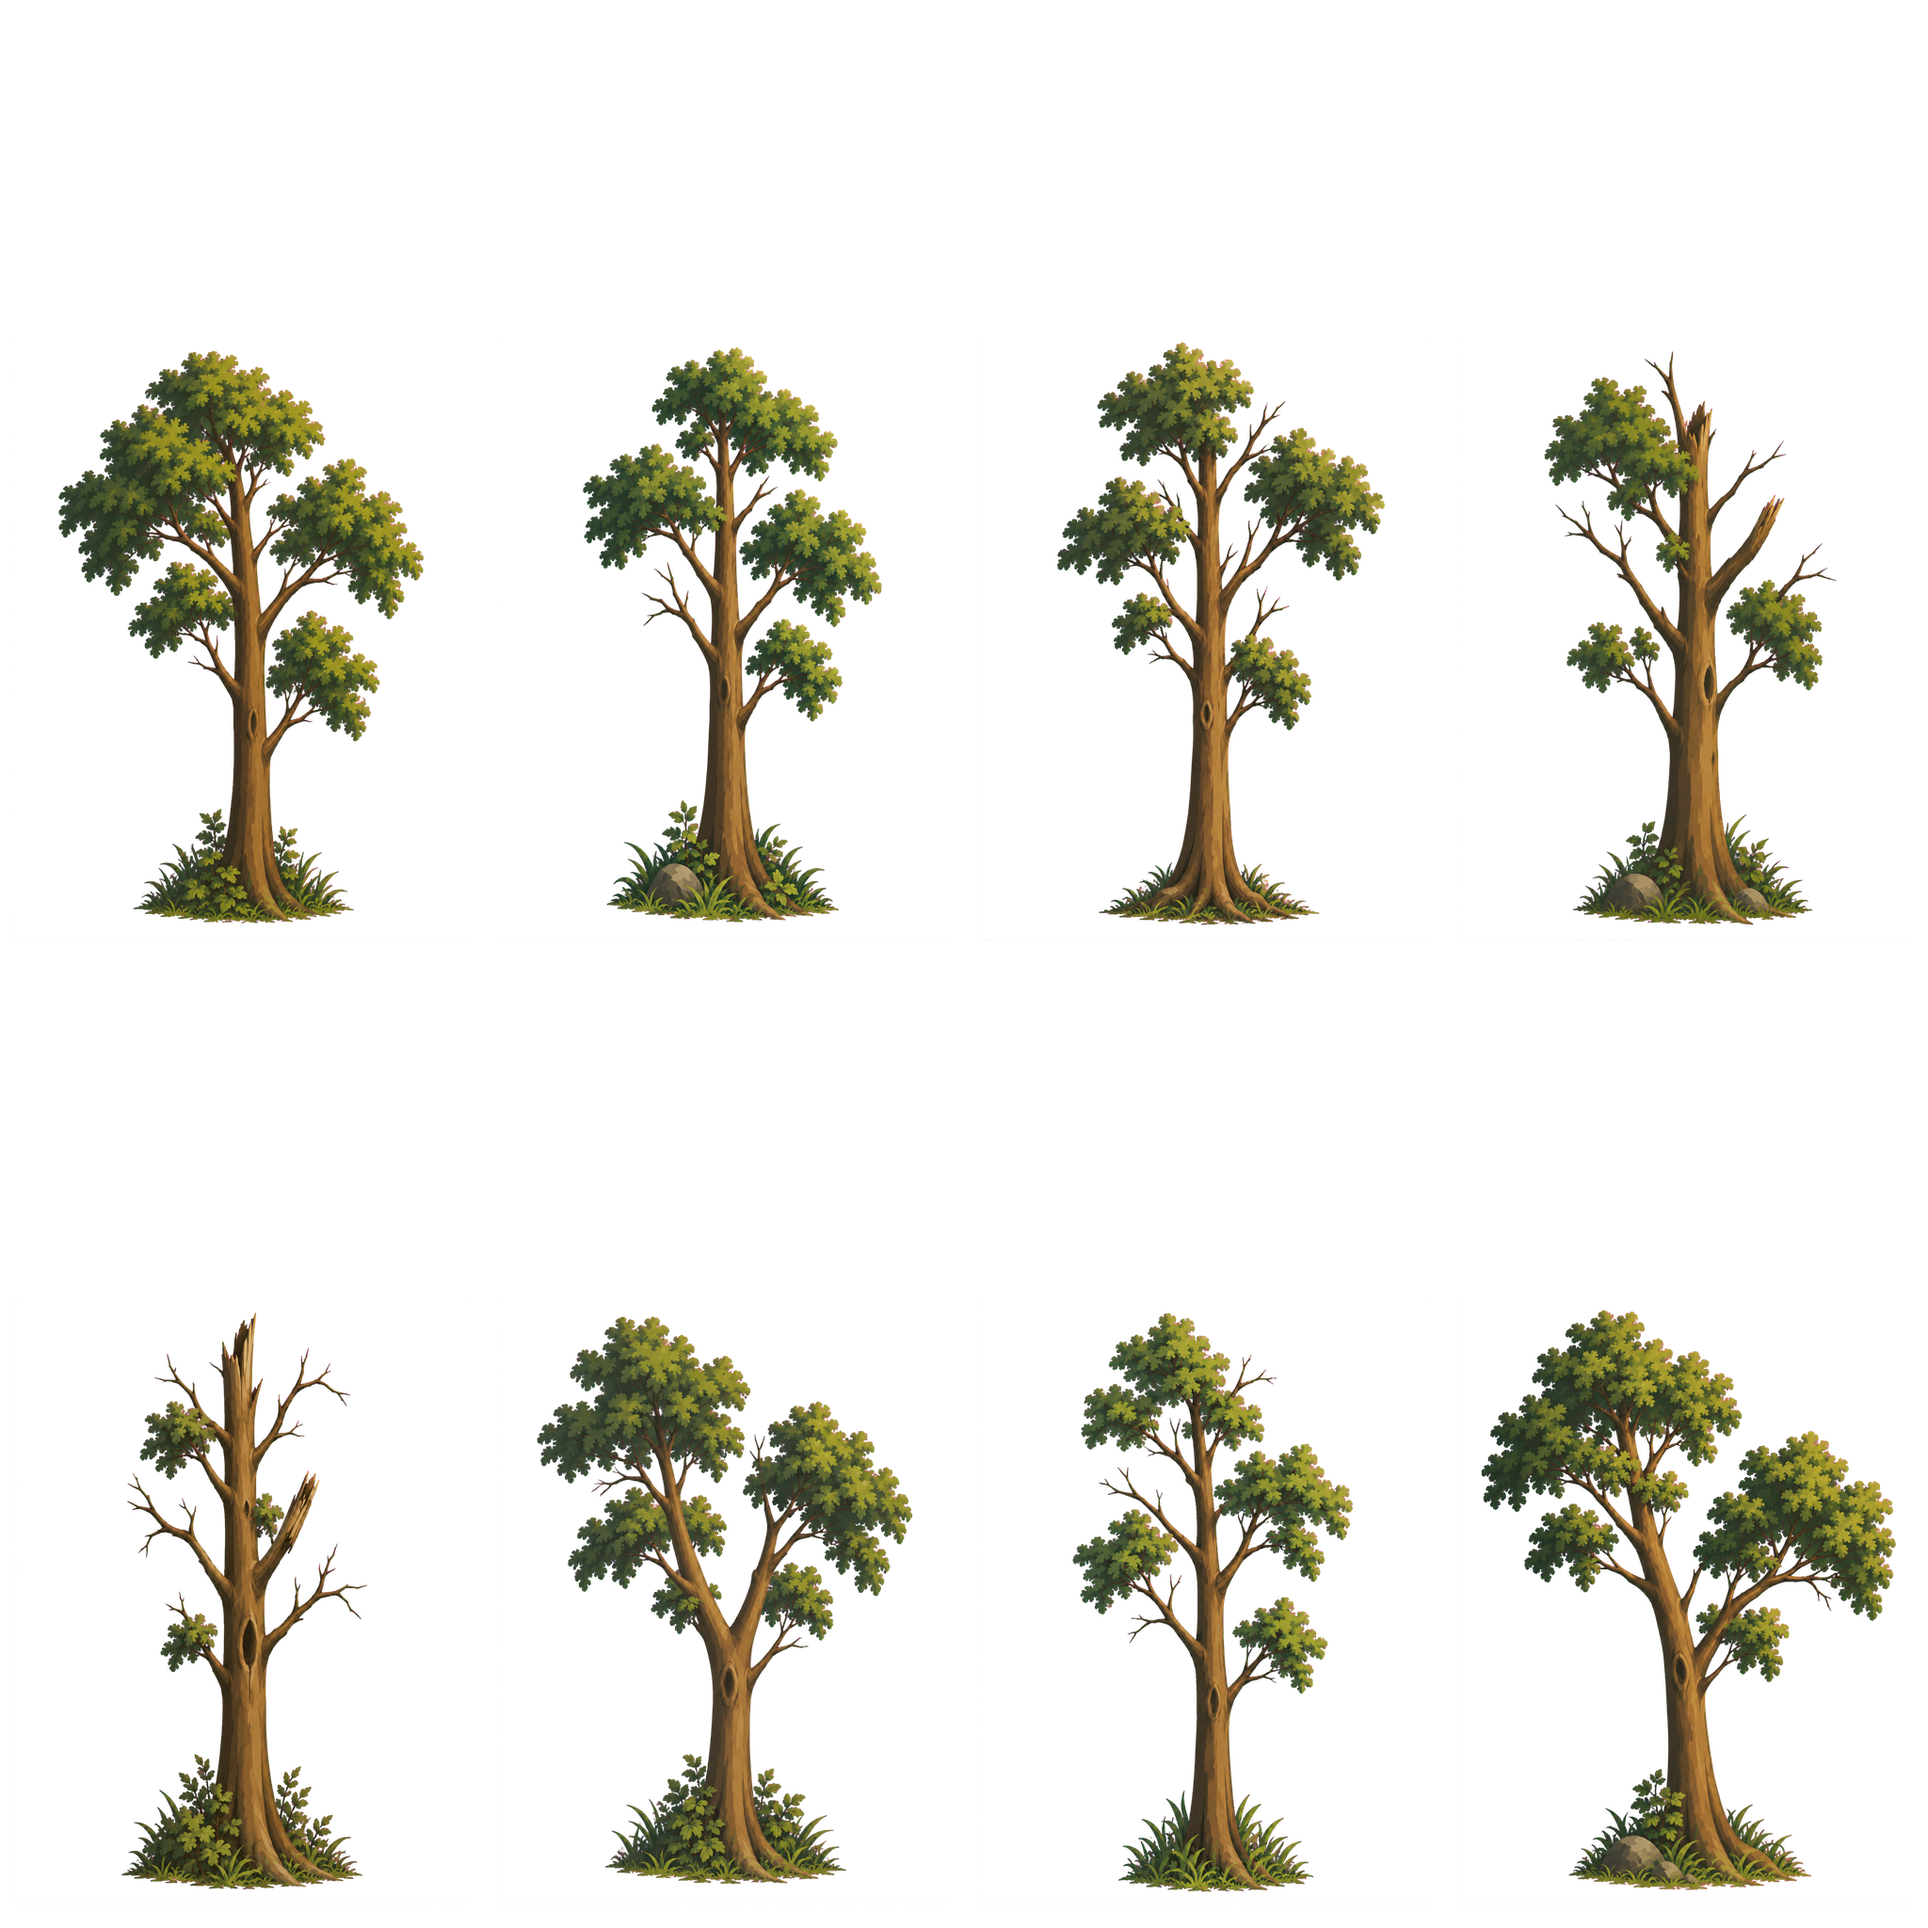
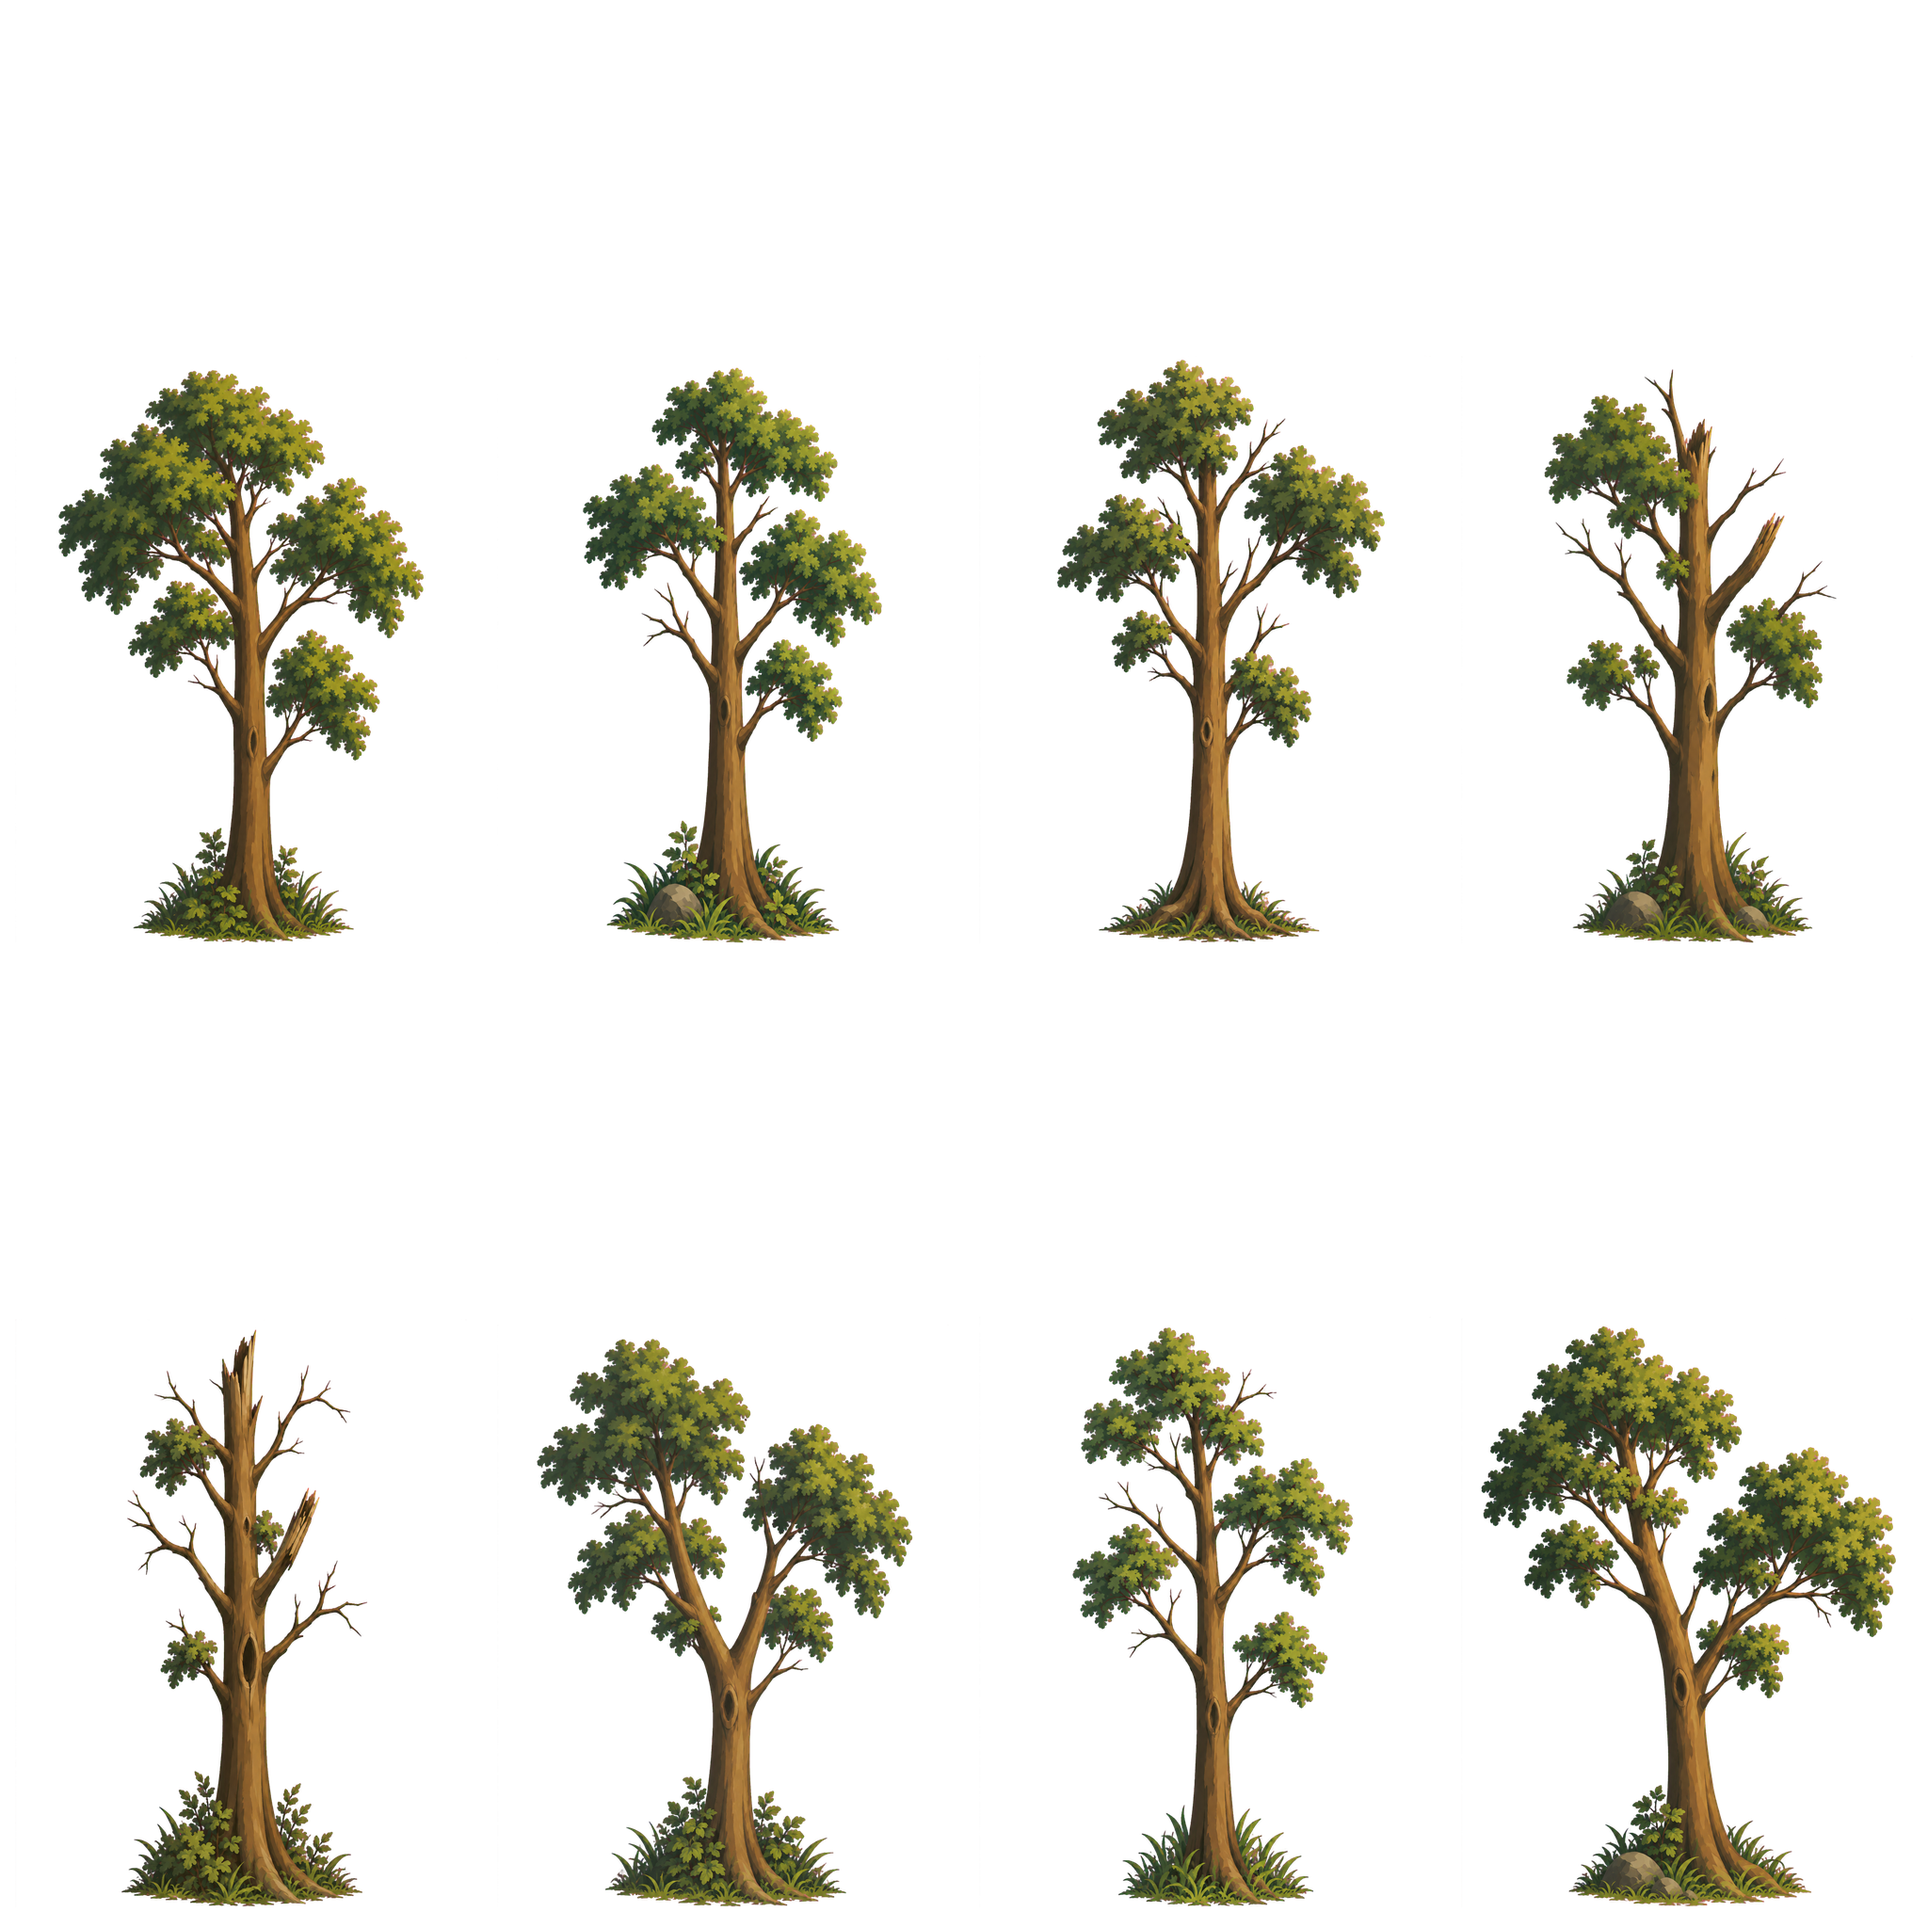
Add files via upload

diff --git a/sidescroll.js b/sidescroll.js
@@ -724,7 +724,7 @@
     return tex;
   }
 
-  textures.pathDirt = createRepeatingImageTexture('terrain-dirt.png?v=0.2.66', 'terrain dirt texture', {
+  textures.pathDirt = createRepeatingImageTexture('terrain-dirt.png?v=0.2.67', 'terrain dirt texture', {
     placeholderDraw: drawFallbackTerrainTexture,
     potSize: 1024
   });
@@ -732,8 +732,8 @@
   // v1.8.81: forest dressing now comes from one authored atlas.
   // This removes the old per-file fallback path which could substitute the
   // full woodland source sheet when an individual PNG failed to load.
-  textures.dressingAtlas = createImageTexture('sidescroll-dressing-atlas.png?v=0.2.66', 'SideScroll dressing atlas');
-  textures.treeAtlas = createImageTexture('sidescroll-tree-atlas.png?v=0.2.66', 'SideScroll tree atlas');
+  textures.dressingAtlas = createImageTexture('sidescroll-dressing-atlas.png?v=0.2.67', 'SideScroll dressing atlas');
+  textures.treeAtlas = createImageTexture('sidescroll-tree-atlas.png?v=0.2.67', 'SideScroll tree atlas');
   const assetUv = {
     tree01: { scale: [0.237304688, 0.315429688], offset: [0.006347656, 0.510742188] },
     tree02: { scale: [0.237304688, 0.315429688], offset: [0.256347656, 0.510742188] },

diff --git a/sw.js b/sw.js
@@ -1,4 +1,4 @@
-const CACHE = "sidescroll-v0.2.66";
+const CACHE = "sidescroll-v0.2.67";
 const APP_SHELL = [
   "./",
   "./index.html",

diff --git a/README.md b/README.md
@@ -1,9 +1,8 @@
-# SideScroll v0.2.66
+# SideScroll v0.2.67
 
-New standing-tree test set.
+Tree baseline alignment fix.
 
-- replaced all eight procedural standing-tree textures with the latest approved tree family
-- includes fuller, airy, sparse, damaged/dead and split-crown structural variation
-- includes varied grounded bases rather than a repeated grass/rock arrangement
-- converted the magenta source backgrounds to soft alpha and dilated tree colours through the transparent edge to avoid colour fringe
-- rebuilt the tree atlas and retained the existing procedural placement, fog, dressing, puzzles and controls
+- corrected the new standing-tree texture pages so the visible grounded base sits at the bottom of each texture frame
+- rebuilt the tree atlas with the corrected baseline alignment
+- retained the existing UV rectangles, procedural tree scale, placement, fog and dressing settings
+- bumped the PWA cache so the corrected atlas replaces v0.2.66
